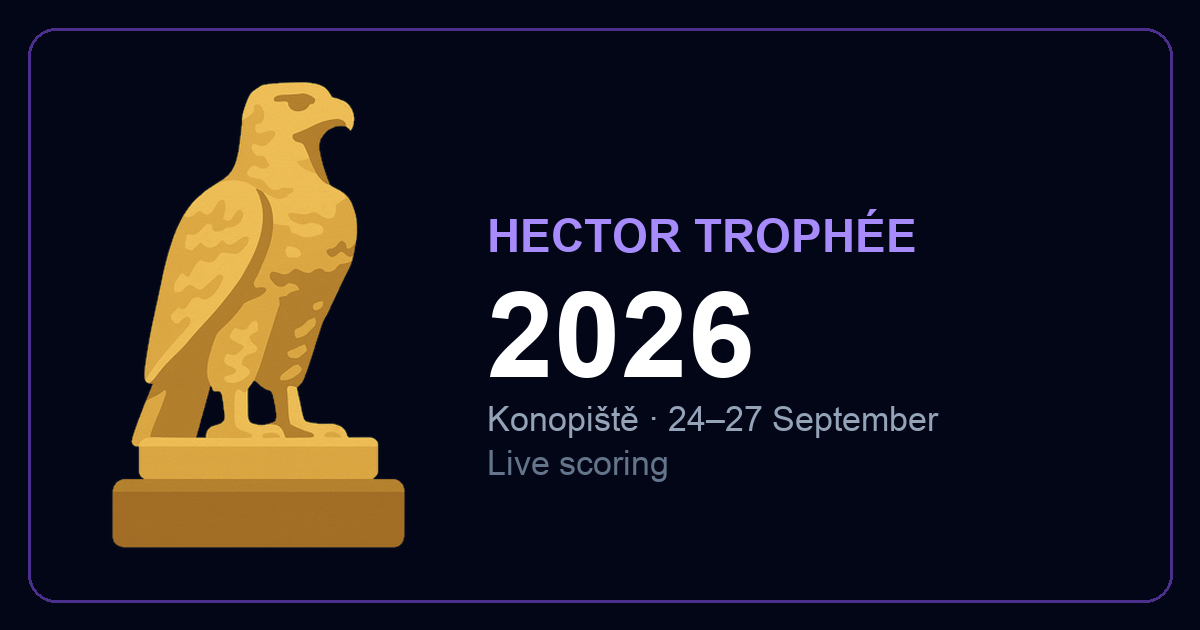
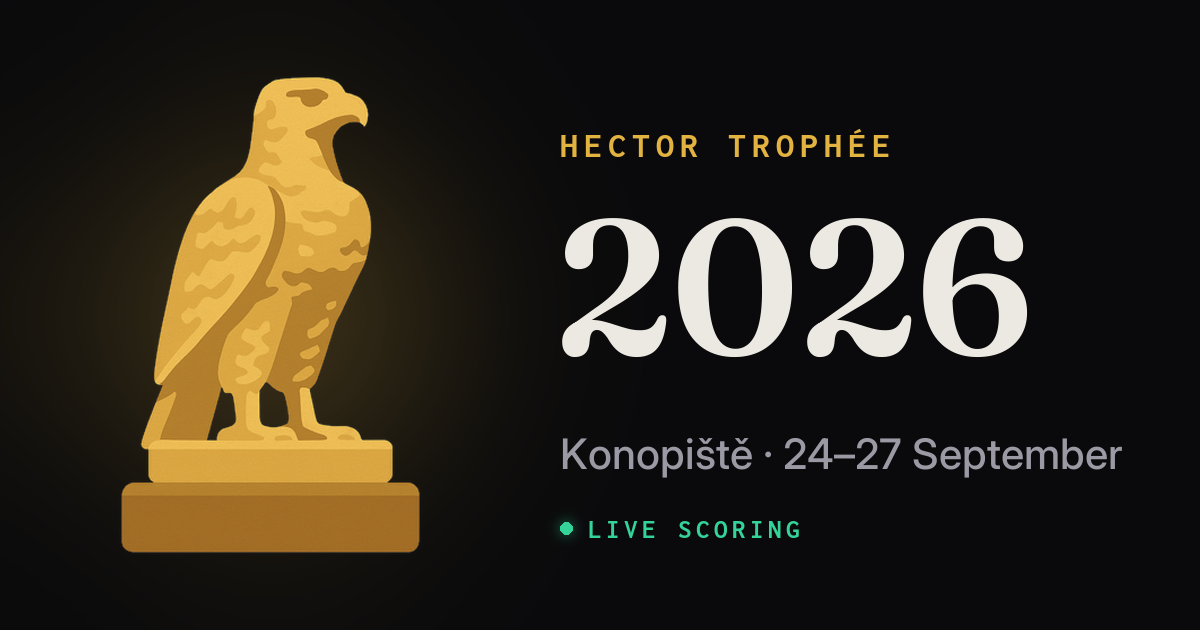
The og card joins the broadcast world
Regenerated: golden eagle with its glow on the neutral ground, HECTOR
TROPHÉE in gold tracked mono, 2026 in Fraunces, and the live-scoring
chyron line with its emerald dot — the link preview now matches the app
it opens. og:image also becomes an absolute URL, which scrapers
(WhatsApp included) require; the relative path may never have resolved
for them at all.

diff --git a/index.html b/index.html
@@ -13,7 +13,7 @@
     <meta name="description" content="Live scoring for Hector Trophée 2026, Konopiště." />
     <meta property="og:title" content="Hector Trophée 2026" />
     <meta property="og:description" content="Live scoring · Konopiště · 24–27 September" />
-    <meta property="og:image" content="/og.png" />
+    <meta property="og:image" content="https://hector-trophee.vercel.app/og.png" />
     <meta property="og:type" content="website" />
     <meta name="twitter:card" content="summary_large_image" />
     <link rel="preconnect" href="https://fonts.googleapis.com" />
